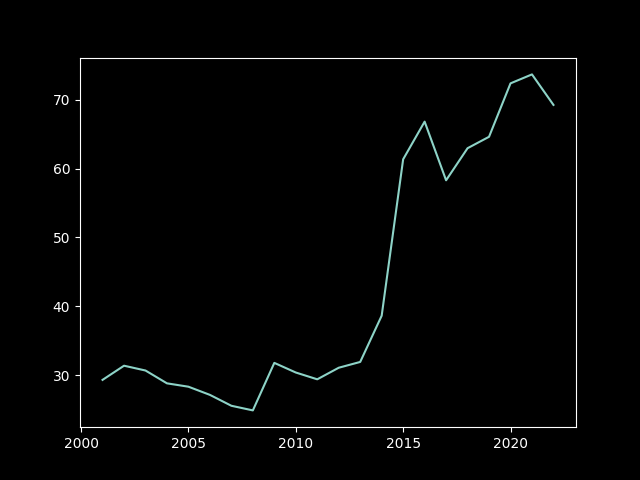
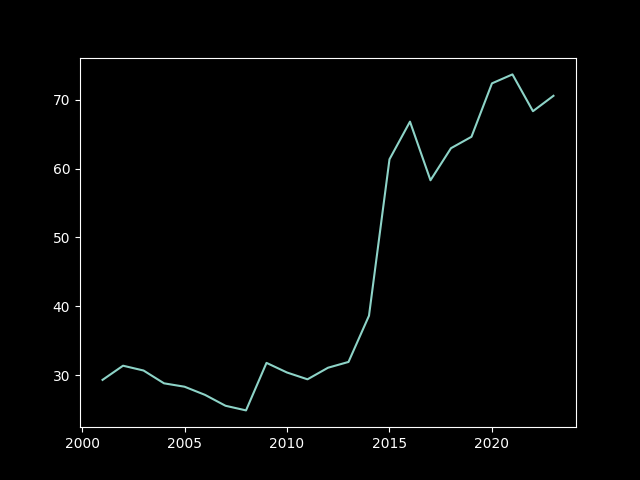
fix very big bag)))

diff --git a/DataBase.py b/DataBase.py
@@ -61,7 +61,7 @@ class DataBase():  # класс базы данных, тут осуществл
                 else:
                     i = float(i.split('|')[1].replace(',', '.'))
                     temp_value.append(i)
-            if temp_year[-1] == 2022:
+            if temp_year[-1] == 2023:
                 self.mean_value.append(statistics.mean(temp_value))
         return self.mean_value, temp_year
 
@@ -83,7 +83,7 @@ class DataBase():  # класс базы данных, тут осуществл
                 if os.path.isfile(f'currency\{i}') == False:
                     download_.download_currency()
             elif os.path.exists(i) == False:
-                self.show_Error('OoOpS, someone deleted main folder/files, u need reinstall Beenance')
+                self.show_Error('OoOpS, someone deleted main folder/files, u need reinstall Beenance' + i)
                 sys.exit()
         for file_currency in self.data_list:
             with open(f'currency\{file_currency}', 'r') as fout:
